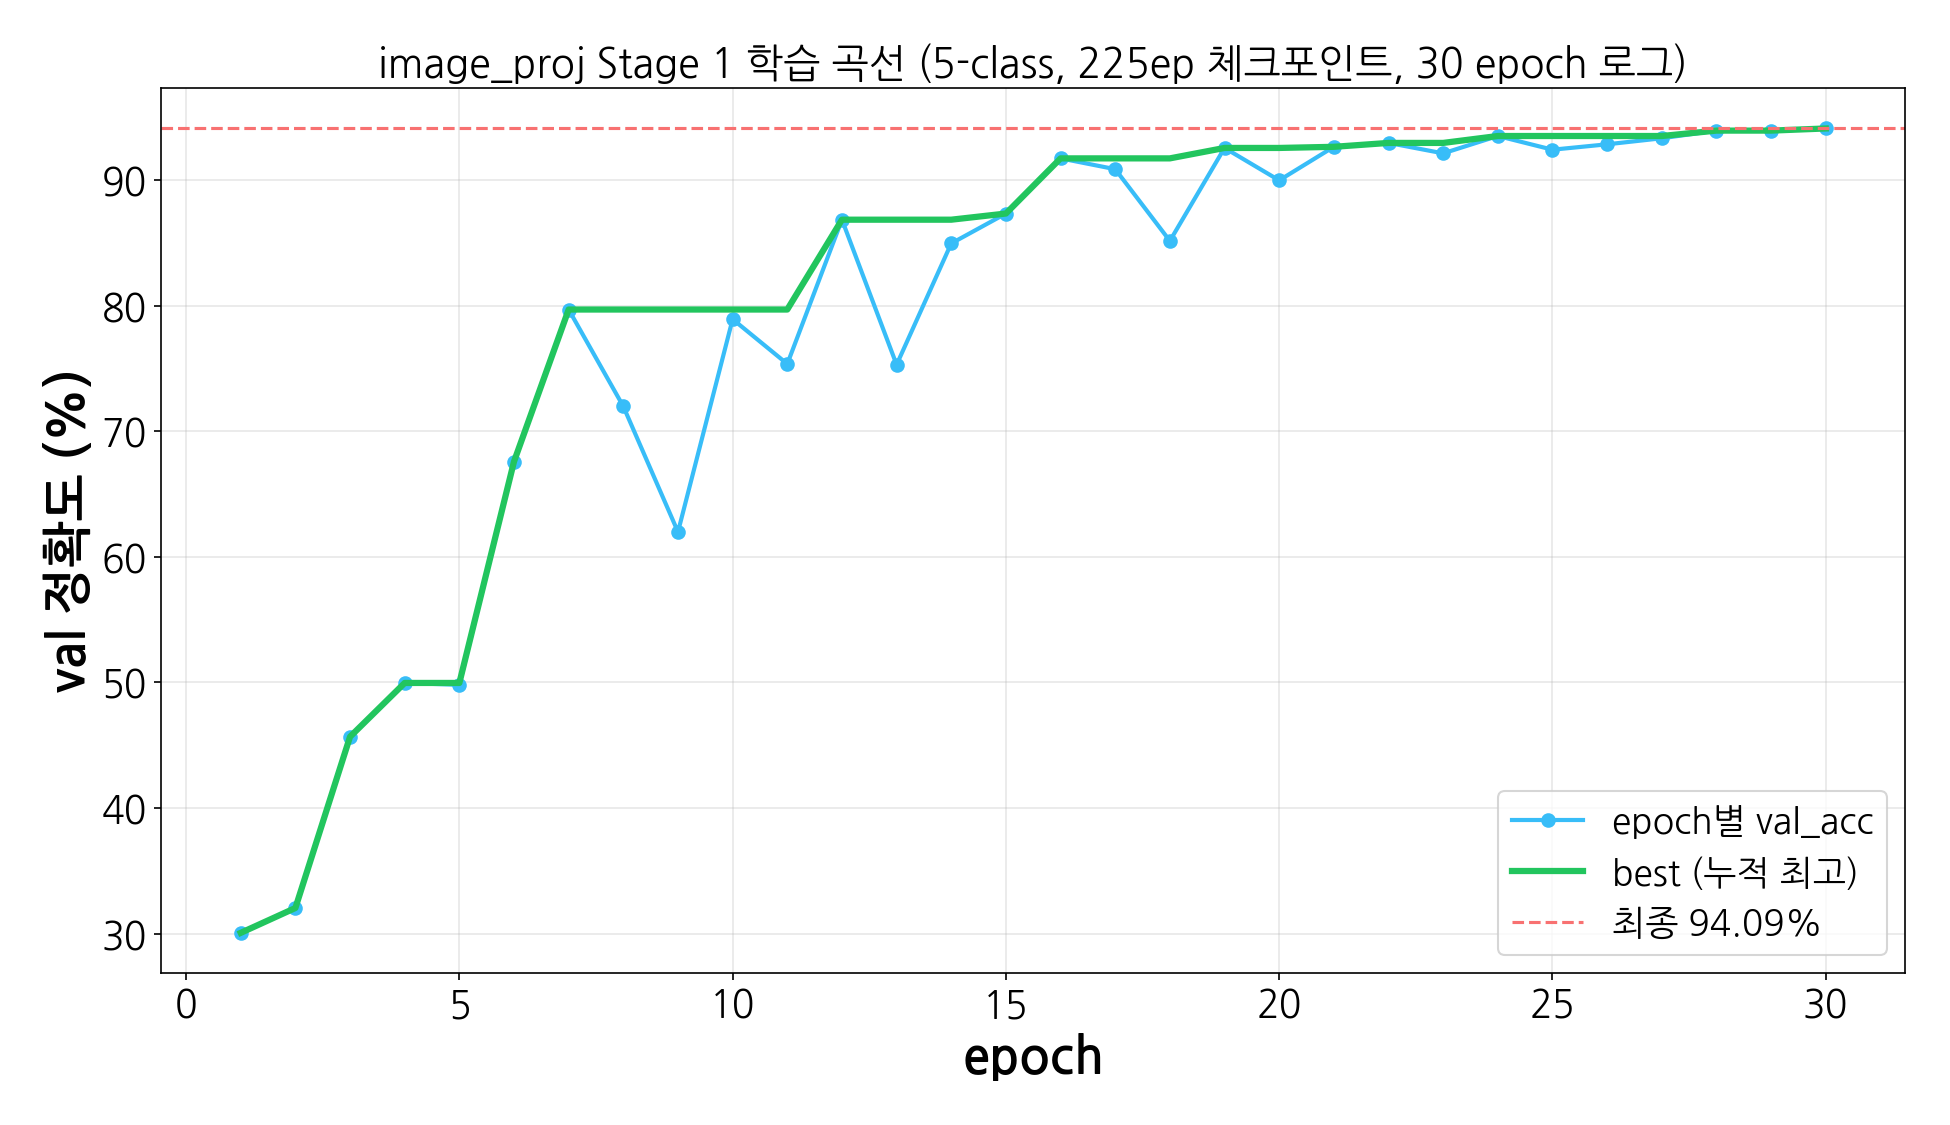
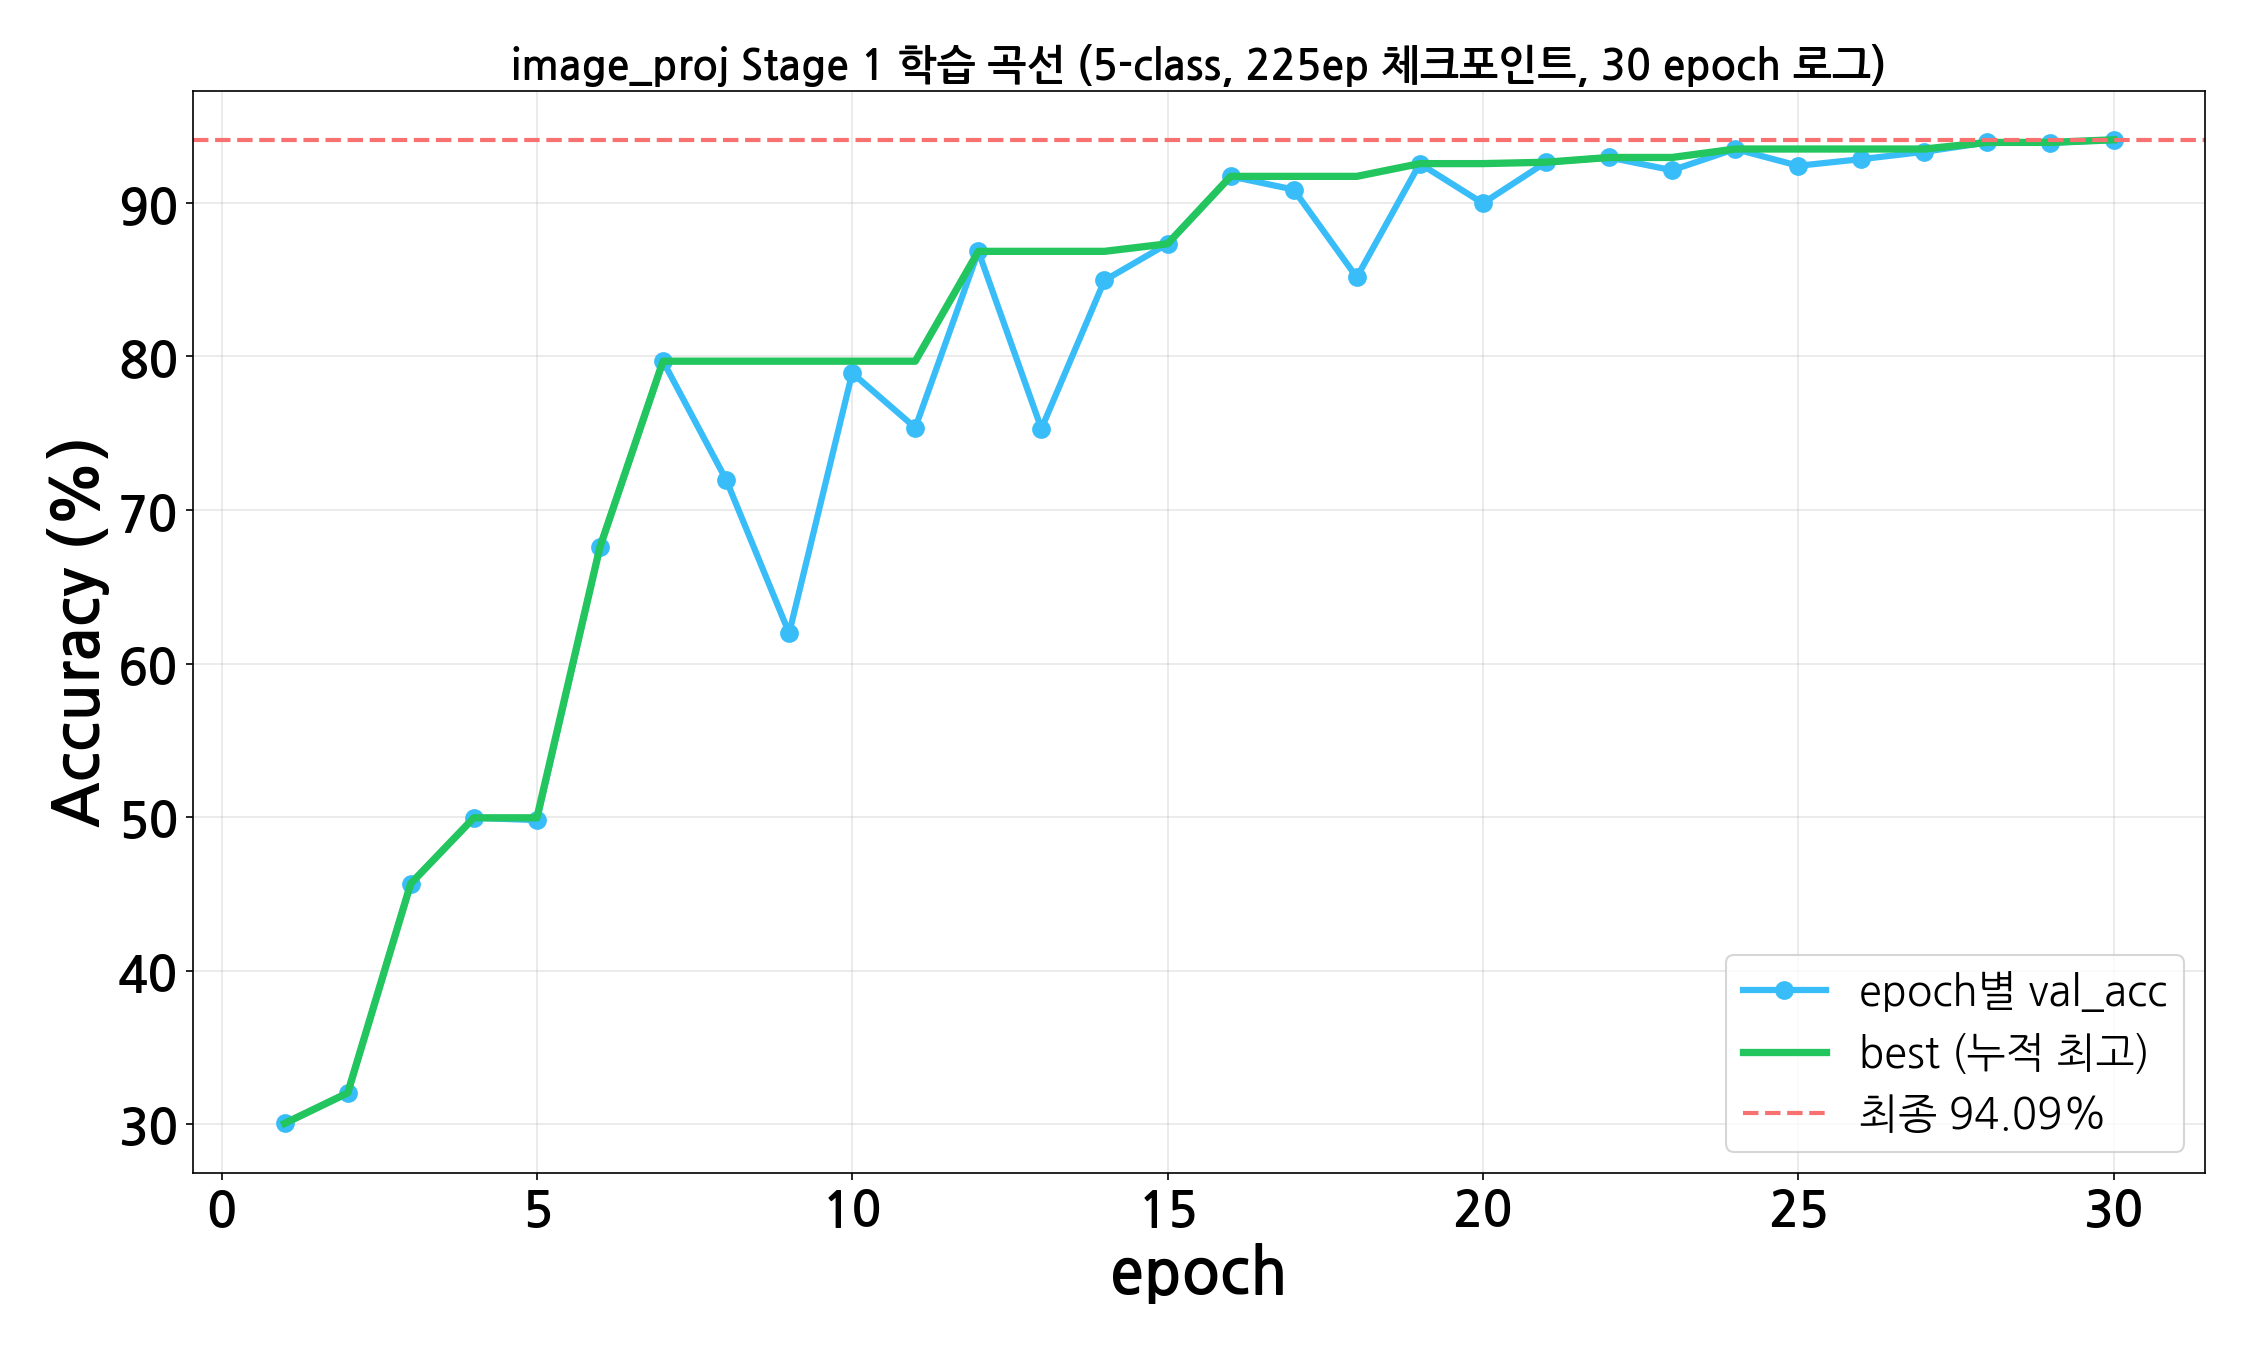
docs: address professor feedback - bigger bold accuracy labels, answer loss values
Per 교수님 comments (08.18 19:57-20:00): enlarged and bolded axis labels
on both accuracy figures (24pt->30pt, bold ticks) and changed the y-axis
label from Korean to "Accuracy (%)" on stage1_v3_valacc_only.png and
stage1_v3_training_curve.png. Also added the requested train/val loss
values (epoch 1: 1.6120/1.6085, epoch 30 final: 0.1072/0.1728) to the
briefing as a tracked Q&A entry.

diff --git a/scripts/plot_stage1_v3_loss_curve.py b/scripts/plot_stage1_v3_loss_curve.py
@@ -26,28 +26,32 @@ val_acc = [h["val_acc"] * 100 for h in hist]
 final_acc = d["final_best_val_acc"] * 100
 
 # ── ① Loss 곡선 ──
-fig1, ax1 = plt.subplots(figsize=(13, 7.5))
-ax1.plot(epochs, train_loss, "o-", color="#38bdf8", label="train loss", linewidth=2.5, markersize=7)
-ax1.plot(epochs, val_loss, "o-", color="#f87171", label="val loss", linewidth=2.5, markersize=7)
-ax1.set_xlabel("epoch", fontsize=24, fontweight="bold")
-ax1.set_ylabel("loss", fontsize=24, fontweight="bold")
-ax1.set_title("image_proj Stage 1 — train/val loss", fontsize=19)
-ax1.tick_params(axis="both", labelsize=18)
-ax1.legend(fontsize=17)
+fig1, ax1 = plt.subplots(figsize=(15, 9))
+ax1.plot(epochs, train_loss, "o-", color="#38bdf8", label="train loss", linewidth=3, markersize=9)
+ax1.plot(epochs, val_loss, "o-", color="#f87171", label="val loss", linewidth=3, markersize=9)
+ax1.set_xlabel("epoch", fontsize=30, fontweight="bold")
+ax1.set_ylabel("Loss", fontsize=30, fontweight="bold")
+ax1.set_title("image_proj Stage 1 — train/val loss", fontsize=22, fontweight="bold")
+ax1.tick_params(axis="both", labelsize=24)
+for lbl in ax1.get_xticklabels() + ax1.get_yticklabels():
+    lbl.set_fontweight("bold")
+ax1.legend(fontsize=20)
 ax1.grid(True, alpha=0.3)
 fig1.tight_layout()
 fig1.savefig(OUT_LOSS, dpi=150)
 print("wrote", OUT_LOSS)
 
 # ── ② val accuracy 곡선 ──
-fig2, ax2 = plt.subplots(figsize=(13, 7.5))
-ax2.plot(epochs, val_acc, "o-", color="#22c55e", linewidth=2.5, markersize=7, label="epoch별 val_acc")
-ax2.axhline(final_acc, color="#f87171", linestyle="--", linewidth=1.5, label=f"최종 {final_acc:.2f}%")
-ax2.set_xlabel("epoch", fontsize=24, fontweight="bold")
-ax2.set_ylabel("val 정확도 (%)", fontsize=24, fontweight="bold")
-ax2.set_title("image_proj Stage 1 — validation accuracy", fontsize=19)
-ax2.tick_params(axis="both", labelsize=18)
-ax2.legend(fontsize=17, loc="lower right")
+fig2, ax2 = plt.subplots(figsize=(15, 9))
+ax2.plot(epochs, val_acc, "o-", color="#22c55e", linewidth=3, markersize=9, label="epoch별 val_acc")
+ax2.axhline(final_acc, color="#f87171", linestyle="--", linewidth=2, label=f"최종 {final_acc:.2f}%")
+ax2.set_xlabel("epoch", fontsize=30, fontweight="bold")
+ax2.set_ylabel("Accuracy (%)", fontsize=30, fontweight="bold")
+ax2.set_title("image_proj Stage 1 — validation accuracy", fontsize=22, fontweight="bold")
+ax2.tick_params(axis="both", labelsize=24)
+for lbl in ax2.get_xticklabels() + ax2.get_yticklabels():
+    lbl.set_fontweight("bold")
+ax2.legend(fontsize=20, loc="lower right")
 ax2.grid(True, alpha=0.3)
 fig2.tight_layout()
 fig2.savefig(OUT_ACC, dpi=150)

diff --git a/scripts/plot_stage1_v3_training_curve.py b/scripts/plot_stage1_v3_training_curve.py
@@ -22,15 +22,17 @@ final = best[-1]
 plt.rcParams["font.family"] = "NanumGothic"
 plt.rcParams["axes.unicode_minus"] = False
 plt.rcParams.update({"font.size": 20})
-fig, ax = plt.subplots(figsize=(13, 7.5))
-ax.plot(epochs, val_acc, "o-", color="#38bdf8", label="epoch별 val_acc", linewidth=2, markersize=6)
-ax.plot(epochs, best, "-", color="#22c55e", label="best (누적 최고)", linewidth=3)
-ax.axhline(final, color="#f87171", linestyle="--", linewidth=1.5, label=f"최종 {final:.2f}%")
-ax.set_xlabel("epoch", fontsize=24, fontweight="bold")
-ax.set_ylabel("val 정확도 (%)", fontsize=24, fontweight="bold")
-ax.set_title("image_proj Stage 1 학습 곡선 (5-class, 225ep 체크포인트, 30 epoch 로그)", fontsize=19)
-ax.tick_params(axis="both", labelsize=18)
-ax.legend(fontsize=17, loc="lower right")
+fig, ax = plt.subplots(figsize=(15, 9))
+ax.plot(epochs, val_acc, "o-", color="#38bdf8", label="epoch별 val_acc", linewidth=3, markersize=8)
+ax.plot(epochs, best, "-", color="#22c55e", label="best (누적 최고)", linewidth=3.5)
+ax.axhline(final, color="#f87171", linestyle="--", linewidth=2, label=f"최종 {final:.2f}%")
+ax.set_xlabel("epoch", fontsize=30, fontweight="bold")
+ax.set_ylabel("Accuracy (%)", fontsize=30, fontweight="bold")
+ax.set_title("image_proj Stage 1 학습 곡선 (5-class, 225ep 체크포인트, 30 epoch 로그)", fontsize=20, fontweight="bold")
+ax.tick_params(axis="both", labelsize=24)
+for lbl in ax.get_xticklabels() + ax.get_yticklabels():
+    lbl.set_fontweight("bold")
+ax.legend(fontsize=20, loc="lower right")
 ax.grid(True, alpha=0.3)
 fig.tight_layout()
 fig.savefig(OUT, dpi=150)
